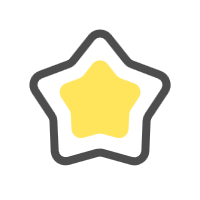
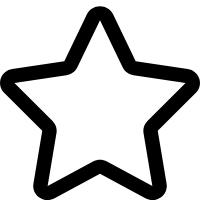
收藏功能的确不好写，今天完成已登录用户的取消收藏功能，明天晚上完成新增收藏，涉及到了新用户的登录授权

diff --git a/pages/webview/webview.js b/pages/webview/webview.js
@@ -14,7 +14,8 @@ Page({
         userInfo: {},
         logged: false,
         takeSession: false,
-        requestResult: ''
+        requestResult: '',
+        collect: {'status':false,'src':'/image/collect.png','text':'收藏本文'}
     },
     onShareAppMessage: function() {
         console.log("inshare")
@@ -31,22 +32,49 @@ Page({
             this.data.tabs.push([webJson.notify[key].typename, webJson.notify[key].content])
         }
     },
+    renderCollect:function(){
+        const session = qcloud.Session.get()
+        var that = this
+        if(session){
+            this.data.userInfo = session.userinfo
+            qcloud.request({
+                url: `${config.service.host}/weapp/demo/get_if_userhasfile/` + session.userinfo.openId + `/` + this.data.fileid,
+                success(res) {
+                    if(res.data["userhasfile"] != false)
+                    {
+                        that.setData({
+                            collect: { 'status':true,'src':'/image/collected.png','text':'已收藏'},
+                        })
+                    }
+                    else{
+                        that.setData({
+                            collect: { 'status':false,'src':'/image/collect.png','text':'收藏本文'}
+                        })
+                    }
+                },
+                fail(error) {
+                    util.showModel('请求失败', error);
+                    console.log('request fail', error);
+                }
+            })
+
+        }
+    },
     onLoad: function(options) {
         var that = this;
         this.data.fileid = options.fileid 
+        this.renderCollect()
         util.showBusy('请求中...')
         qcloud.request({
             url: `${config.service.host}/weapp/demo/get_filepage_json/` + options.fileid,
             success(result) {
                 util.showSuccess('请求成功完成')
                 that.initTabs(result.data)
-
                 //上一步获取数据并初始化navmap后需要渲染nav
                 wx.getSystemInfo({ //设置导航栏平分
                     success: function(res) {
                         that.setData({
                             tabs: that.data.tabs,
-                            //tabs: that.data.navMap,
                             sliderLeft: (res.windowWidth / that.data.tabs.length - sliderWidth) / 2,
                             sliderOffset: res.windowWidth / that.data.tabs.length * that.data.activeIndex
                         });
@@ -91,38 +119,54 @@ Page({
         })
         console.log(this.data.userInfo)
     },
+    cancleCollect:function(openId,fileId)
+    {//取消收藏
+        var that = this
+        qcloud.request({
+            url: `${config.service.host}/weapp/demo/delete_user_file/` + openId + `/` + fileId,
+            success(res) {
+                    that.setData({
+                        collect: { 'status':false,'src':'/image/collect.png','text':'收藏本文'}
+                    })
+            },
+            fail(error) {
+                util.showModel('请求失败', error);
+                console.log('request fail', error);
+            }
+        })
+    },
     collectFile:function ()
     {
-        if (this.data.logged) return
         var that = this
-        util.showBusy('正在登录')
-
-        const session = qcloud.Session.get()
-
-        if (session) {
-            qcloud.loginWithCode({
-                success: res => {
-                    this.setData({ userInfo: res, logged: true })
-                    util.showSuccess('登录成功')
-                    console.log(this.data.userInfo)
-                },
-                fail: err => {
-                    console.error(err)
-                    util.showModel('登录错误', err.message)
-                }
-            })
-        } else {
-            qcloud.login({
-                success: res => {
-                    this.setData({ userInfo: res, logged: true })
-                    util.showSuccess('登录成功')
-                },
-                fail: err => {
-                    console.error(err)
-                    util.showModel('登录错误', err.message)
-                }
-            })
+        if(this.data.collect['status'] == true)
+        {
+            //const session = qcloud.Session.get()
+            this.cancleCollect(this.data.userInfo.openId,this.data.fileid)
         }
+        //if (session) {
+        //qcloud.loginWithCode({
+        //success: res => {
+        //this.setData({ userInfo: res, logged: true })
+        //util.showSuccess('登录成功')
+        //console.log(this.data.userInfo)
+        //},
+        //fail: err => {
+        //console.error(err)
+        //util.showModel('登录错误', err.message)
+        //}
+        //})
+        //} else {
+        //qcloud.login({
+        //success: res => {
+        //this.setData({ userInfo: res, logged: true })
+        //util.showSuccess('登录成功')
+        //},
+        //fail: err => {
+        //console.error(err)
+        //util.showModel('登录错误', err.message)
+        //}
+        //})
+        //}
     },
 
     // 切换是否带有登录态
@@ -136,8 +180,8 @@ Page({
     {
         const session = qcloud.Session.get()
         console.log(session)
-      wx.switchTab({
-        url: '../index/index'
-      })
+        wx.switchTab({
+            url: '../index/index'
+        })
     }
 });
